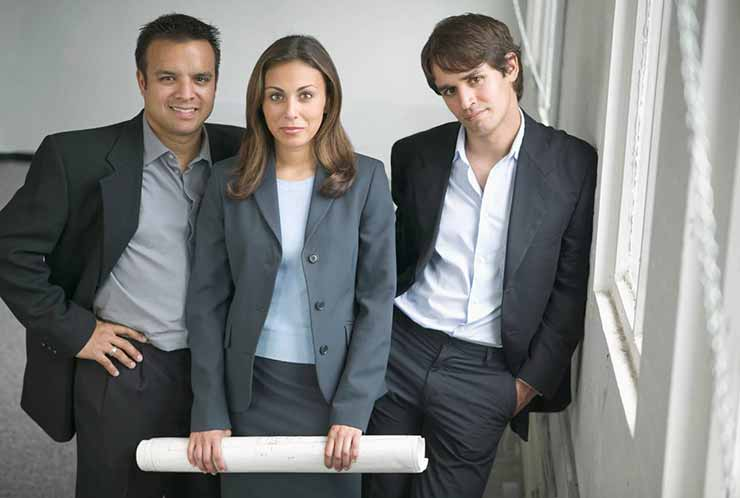
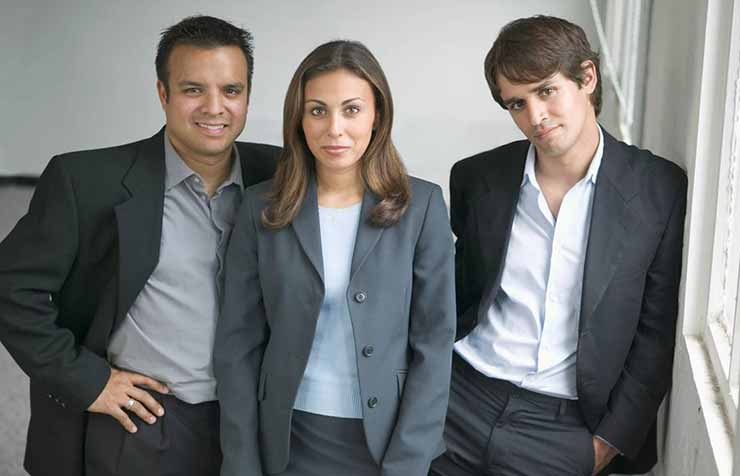
changes made

diff --git a/products.html b/products.html
@@ -28,21 +28,61 @@
                 <img src="images/placeholder-1.svg" alt="Placeholder">
                 <figcaption>Lorem ipsum dolor sit amet, consectetur adipiscing elit. Integer cursus quis turpis a eleifend.</figcaption>
             </figure>
-
+            
+            <details>
+                
+                <ol>
+                    <li>what ever game</li>
+                    <li>what ever game</li>
+                    <li>what ever game</li>
+                </ol>    
+                
+            </details>
+            
             <figure class="bucket3">
                 <img src="images/placeholder-2.svg" alt="Placeholder">
                 <figcaption>Lorem ipsum dolor sit amet, consectetur adipiscing elit. Integer cursus quis turpis a eleifend.</figcaption>
             </figure>
-
+            
+            <details>
+                
+                <ul>
+                    <li>what ever game</li>
+                    <li>what ever game</li>
+                    <li>what ever game</li>
+                </ul>    
+                
+            </details>
+            
             <figure class="bucket3">
                 <img src="images/placeholder-3.svg" alt="Placeholder">
                 <figcaption>Lorem ipsum dolor sit amet, consectetur adipiscing elit. Integer cursus quis turpis a eleifend.</figcaption>
             </figure>
+            <details>
+                
+                <ol>
+                    <li>what ever game</li>
+                    <li>what ever game</li>
+                    <li>what ever game</li>
+                </ol>    
+                
+            </details>
         
             <figure class="bucket3">
                 <img src="images/placeholder-4.svg" alt="Placeholder">
                 <figcaption>Lorem ipsum dolor sit amet, consectetur adipiscing elit. Integer cursus quis turpis a eleifend.</figcaption>
+                
             </figure>
+            
+                        <details>
+                
+                <ol>
+                    <li>what ever game</li>
+                    <li>what ever game</li>
+                    <li>what ever game</li>
+                </ol>    
+                
+            </details>
         </div>
         
     </article>

diff --git a/css/general.css b/css/general.css
@@ -19,7 +19,7 @@ html {
 	text-size-adjust: 100%;
     
     font-size: 100%;
-    font-family:Couture, Helvetica, sans-serif
+    font-family:Open Sans, Helvetica, Futrura, sans-serif
 }
 
 .nav-top {
@@ -75,7 +75,7 @@ article {
 }
 
 h1 {
-    font-family:'Nexa-XBold', Couture, Coolvetica, Revolution, Futura, Sans-Serif;
+    font-family:Courture, Open Sans, Helvetica, Futura, Sans-Serif;
     font-weight:normal;
     line-height:2.5rem;
     color: white;
@@ -198,7 +198,7 @@ li {
 
 .bucket3 {
     overflow: hidden;
-    margin: 0 0 1.5rem;
+    margin: 0;
     padding: 0;
 }
 
@@ -214,4 +214,17 @@ li {
     width: 50%;
     margin: 0;
     padding: 1rem;
+}
+
+details {
+    font-size: 1.5rem;
+    background-color: maroon;
+    margin: 0 0 1.5rem 0;
+    padding: .2rem;
+    color: white;
+}
+
+details li {
+    color: white;
+    margin: 0 0 .5rem 0;
 }

diff --git a/company.html b/company.html
@@ -24,7 +24,7 @@
         
         <figure>
             <img src="images/employees.jpg" alt="Company employees">
-            <figcaption>what ever the fuck goes here! fhjdkafhljksdhfkjlahfkajlhfkjlahfk<br>jafhkjfhakljfhlkjfhalkfjhaklfjhaflkja<br>hfjklahdflkjahdfjklahdfakjlf</figcaption>
+            <figcaption>Our founding team and owners of Victory video games</figcaption>
         </figure>
         
 
